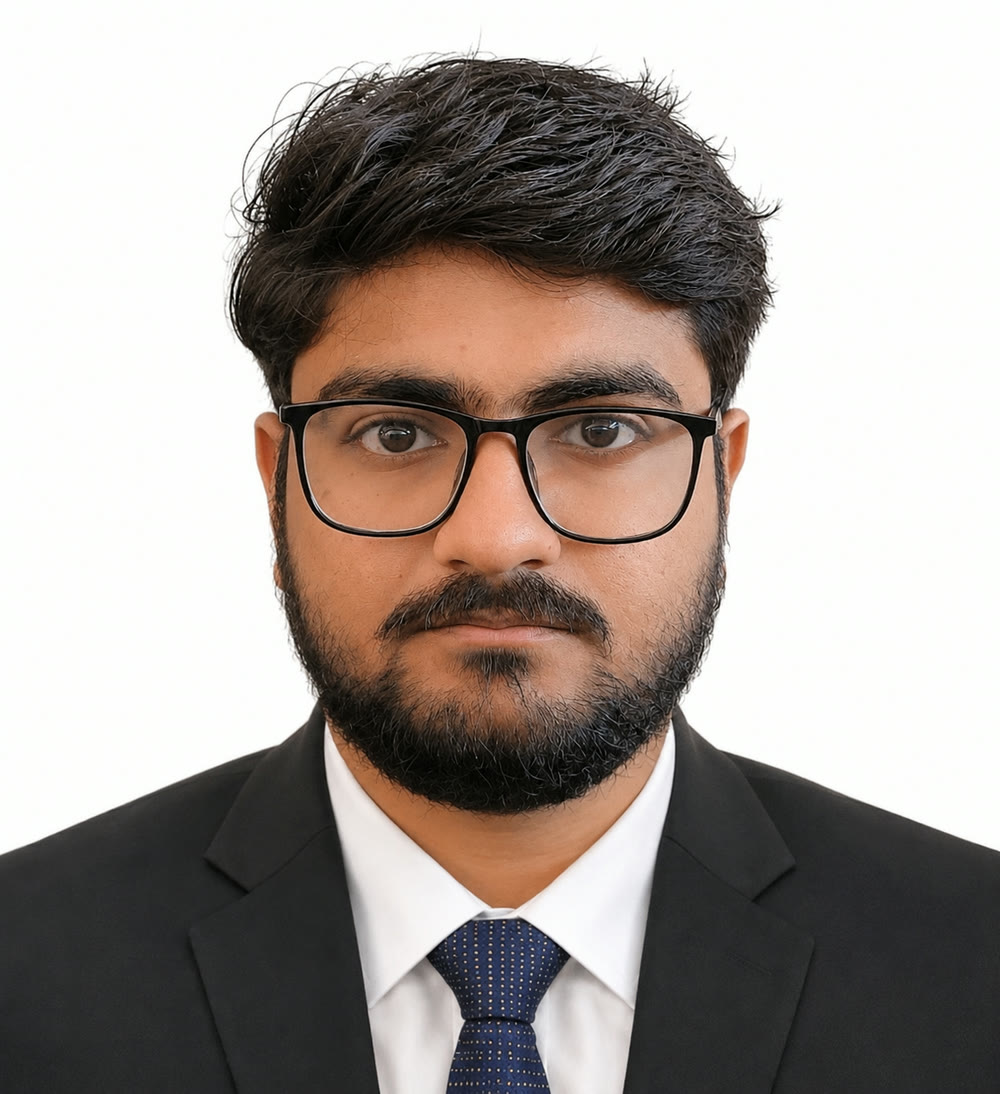
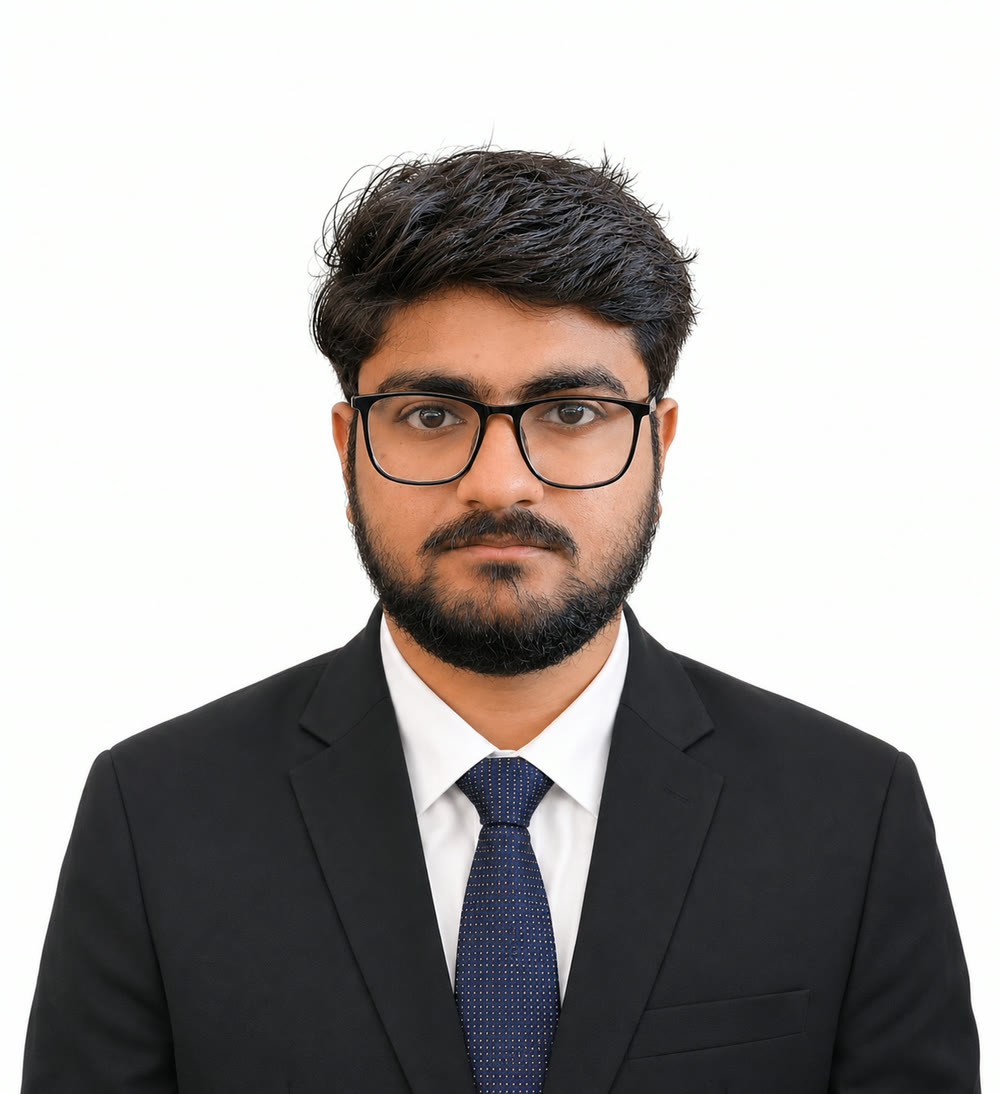
Use the wider headshot and blend it into the page
Swap in the zoomed-out portrait (metadata stripped). The studio-white
background is multiplied onto the day paper colour with a hairline
border and soft shadow, so it no longer reads as a bright white block
on the night section.

diff --git a/src/components/About.css b/src/components/About.css
@@ -80,3 +80,19 @@
     max-width: 280px;
   }
 }
+
+/* The headshot has a studio-white background. Multiply it onto the day paper so
+   it reads as part of the page instead of a bright white block on the night sky. */
+.about__photo {
+  background: var(--day);
+  border-radius: var(--radius);
+  overflow: hidden;
+  box-shadow: 0 0 0 1px var(--line-dark), 0 24px 60px -24px rgba(0, 0, 0, 0.6);
+}
+
+.about__photo-img {
+  display: block;
+  border-radius: 0;
+  object-position: 50% 30%;
+  mix-blend-mode: multiply;
+}
